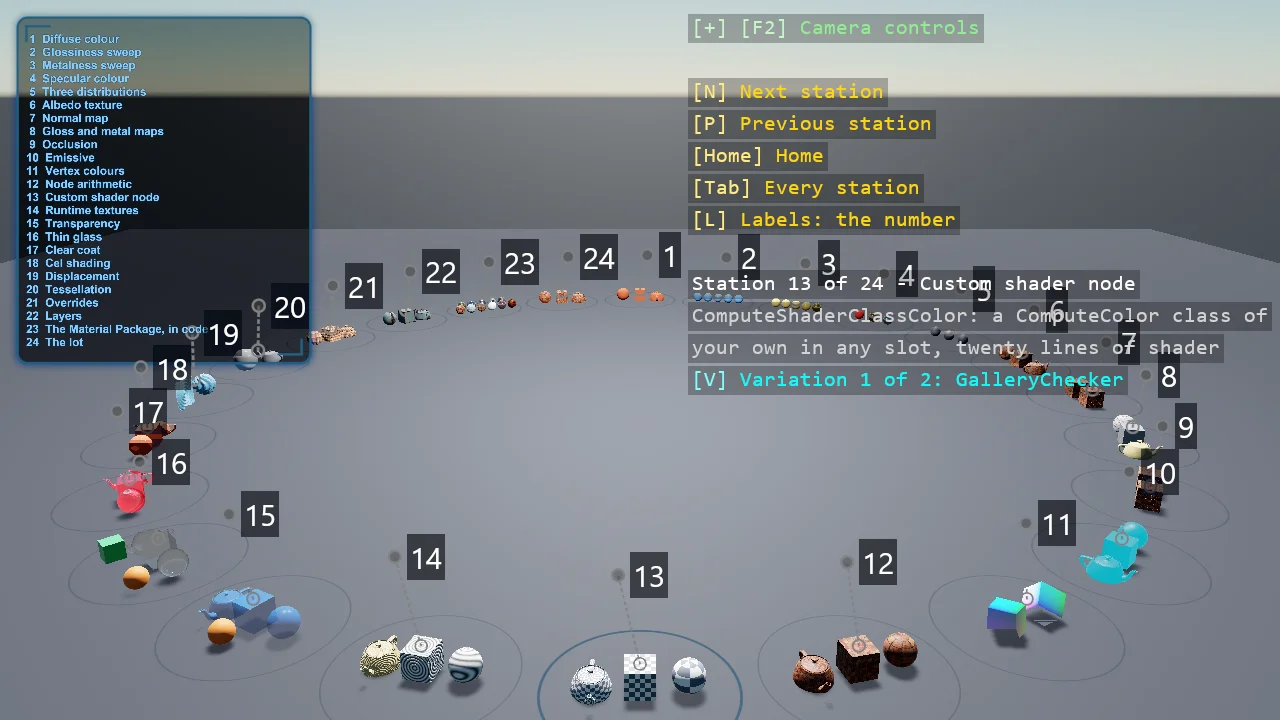
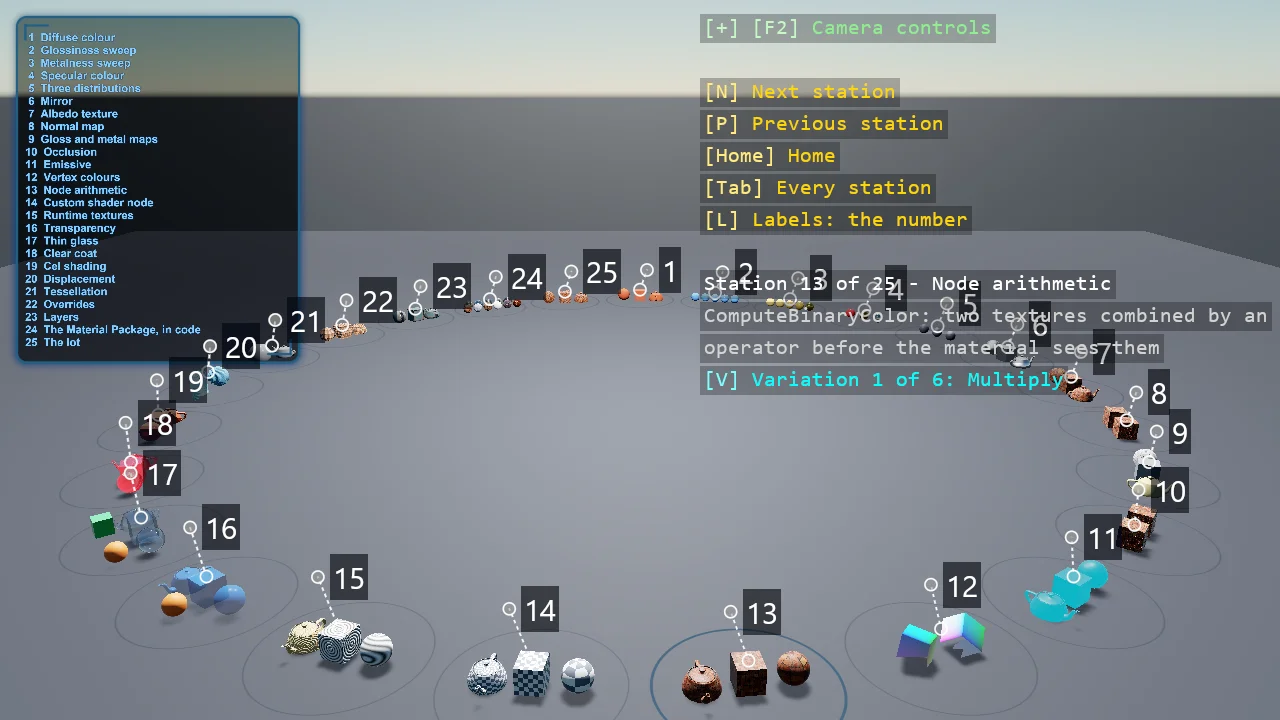
docs: Content updated

diff --git a/docs/release-notes/index.md b/docs/release-notes/index.md
@@ -55,7 +55,7 @@ The Stride Community Toolkit is developed with rapid iteration in mind. It moves
 - ShapeBatch: the pixel stage reads each shape's record from a structured buffer instead of fifteen interpolated registers, points live in their own buffer so a shape has as many as it needs, streams are integer-exact, the border is a flat band with an anti-aliasing ramp measured from screen derivatives, and a 4x4 Bayer dither hides banding in glows.
 - `ShapeGlow.Additive`: a glow that adds light rather than covering what is behind it.
 - The render feature gathers every batch of the frame into shared buffers once, draws each batch under a lock, and flushes after the last view; batches can be removed with `RemoveShapeBatch`.
-- `game.AddShapeBatch(afterPostEffects: true)` draws a batch in the compositor's UI stage, after the post-processing chain, so a colour comes out as given. A batch in the scene goes through auto exposure and the tone mapper with everything else, and a white shape lands at about half next to text that is truly white - measured at exactly 127 of 255 in the gallery frame, solid or dashed, thin or thick. Nothing in the UI stage is depth-tested; the gallery frame's leader lines and pins use it.
+- `game.AddShapeBatch(afterPostEffects: true)` draws a batch in the compositor's UI stage, after the post-processing chain, so a colour comes out as given. A batch in the scene goes through auto exposure and the tone mapper with everything else, and a white shape lands at about half next to text that is truly white - measured at exactly 127 of 255 in the gallery frame, solid or dashed, thin or thick. Nothing in the UI stage is depth-tested; the gallery frame's leader lines and pins use it. `ShapeBatch.WorldPerPixel(point)` says how much world one pixel covers at a point in the last drawn frame, the shader's own figure, so a line can stop short of a pixel-radius ring by the ring's radius at any distance.
 
 ### ✨ Enhancement
 
@@ -85,7 +85,7 @@ The Stride Community Toolkit is developed with rapid iteration in mind. It moves
 
 ### 🎓 Examples
 
-- **Material Gallery** (`E02_3D_MaterialGallery`, new): the engine's material system on a ring of twenty-four stations, all from code, every station on the same sphere, cube and teapot and most with variations on `V`. The numbers first - a Lambert baseline, glossiness and metalness sweeps, the specular-colour workflow, the three microfacet distributions - then the maps (albedo, normal, gloss and metalness, occlusion, an emissive whose intensity is a parameter pulsed every frame), the inputs a slot can take (vertex colours from a `MeshBuilder` mesh, `ComputeBinaryColor` arithmetic, a `ComputeColor` shader class of your own from the example's `Effects` folder, textures computed in C#), the surfaces (blend, additive, cutoff and an ordered-dither cutoff; thin glass; clear coat with runtime flake normals; cel shading with a ramp made at runtime), the models (displacement, PN and flat tessellation at feature level 11, overrides, material layers), Game Studio's Material Package transcribed from its `.sdmat` files onto two rows of spheres, and one material with every slot filled. The pack's nine MIT texture sets are vendored under `examples/code-only/Resources/materials`. Hair and subsurface scattering are not shown: both fail to compile on 4.4's shader mixer (`notes/upstream/hair-material-abstract-direction-function.md`).
+- **Material Gallery** (`E02_3D_MaterialGallery`, new): the engine's material system on a ring of twenty-five stations, all from code, every station on the same sphere, cube and teapot and most with variations on `V`. The numbers first - a Lambert baseline, glossiness and metalness sweeps, the specular-colour workflow, the three microfacet distributions, a mirror (the cubemap check from Stride discussion 3031) - then the maps (albedo, normal, gloss and metalness, occlusion, an emissive whose intensity is a parameter pulsed every frame), the inputs a slot can take (vertex colours from a `MeshBuilder` mesh, `ComputeBinaryColor` arithmetic, a `ComputeColor` shader class of your own from the example's `Effects` folder, textures computed in C#), the surfaces (blend, additive, cutoff and an ordered-dither cutoff; thin glass; clear coat with runtime flake normals; cel shading with a ramp made at runtime), the models (displacement, PN and flat tessellation at feature level 11, overrides, material layers), Game Studio's Material Package transcribed from its `.sdmat` files onto two rows of spheres, and one material with every slot filled. The pack's nine MIT texture sets are vendored under `examples/code-only/Resources/materials`. Hair and subsurface scattering are not shown: both fail to compile on 4.4's shader mixer (`notes/upstream/hair-material-abstract-direction-function.md`).
 - The gallery frame guards a station's setup and update: an exhibit that throws leaves an empty pad with the message on the station and the overlay, and the ring stands. `--station N --variation M` starts a gallery at a station's variation, for screenshots.
 - `E01_3D_BasicScene_EngineOnly` and `E01_3D_BasicScene_FileBasedApp/ProgramEngineOnly.cs` (new): a ground, a cube and a camera in Stride alone, with no toolkit package - the compositor, camera, lights, procedural models and material the toolkit's one-liners stand for - once as a regular project and once as a file-based app. Both need `Stride.Engine` and a build-only `Stride.AssetCompiler`; the file-based one carries a `Directory.Build.targets` for the build-only part, which a `#:package` directive cannot express. The manual has an "Engine Only" page under both Create Project and Create File-Based App.
 - **Easing Basics** (`E02_2D_EasingBasics`, new): easing from the ground up in four lanes that move a disc over the same two seconds - by hand with no easing, by hand with one formula, with `EasingFunction`, and with a `Tween` - with each lane's code printed beside it. The last three use the same curve and move in lockstep while the code gets shorter, and dots along each lane show the spacing that makes easing visible. A gold scene `easing-basics` pins the three to one vertical line.
@@ -105,6 +105,8 @@ The Stride Community Toolkit is developed with rapid iteration in mind. It moves
 - The galleries (`E09_3D_Particles`, `E11_3D_ShapeBatch`) start from above and outside the ring, looking down 17 degrees, so every station is in view at once; the index board hangs in the air where that view has its top-left corner, and stays there when the camera moves; from home, `N` and `P` both go to the first station, and count from the nearest one only once the camera has been steered away; `Home` itself is a longer flight that keeps facing the first station on the way, so from there it is the flight out reversed and from anywhere else the camera turns to it as it rises. The ring on the ground under each station is a button: it fills under the mouse and a click flies there. Station numbers are in a regular face - the built-in font is bold. The shape gallery's Glow station and its G key glow in each shape's own colour at a third of its strength, the neon look, rather than as fatter strokes.
 
 ### 🔧 Engineering
+
+- Thin glass has rendered as an opaque grey wall since the engine's June 2025 blend-description refactor: the transmittance pass builds its multiply blend and then replaces render target 0 with a struct that only sets the alpha factors, which resets the enable flag and the colour factors, so the pass paints its transmittance as paint. The material gallery's glass station puts the multiply back on the transmittance passes after generation; the one-line engine fix is in `notes/upstream/thin-glass-transmittance-blend-state.md`.
 
 - Lessons from building materials in code, each the cause of a black or wrong render before it was found: the microfacet model's default `GGXLUT` environment term resolves the engine's DFG lookup texture through an attached reference a code-only game never loads, so metals render black - the `GGXPolynomial` term needs nothing (`game.CreateMaterial` still uses the default); `Image.Load` decodes a PNG as BGRA, so a loader that copies the pixels into an RGBA texture swaps red and blue; `Material.New` leaves `Material.Descriptor` null, and a material used as a `MaterialBlendLayer` needs it; the thin-glass model is multi-pass on its own and wants no transparency feature and no diffuse model; a vertex-displaced mesh that casts shadows shades itself black; a tessellated shadow caster trips a hull-shader constant-buffer warning every frame (`notes/upstream/tessellation-shadow-hull-constant-buffer.md`).
 - Known issue on Stride 4.4.0-beta7: `DebugRenderComponentScript` (the Bepu debug wireframe) throws on its first frame because the engine's `SinglePassWireframeShader` fails to compile under the new SPIR-V shader pipeline. `E02_3D_Primitives`, `E08_2D_DebugRender` and `E08_3D_DebugRenderComponent` are affected. Fixed upstream in the shader compiler (the stage `streams` variable is zero-initialised) and verified with `4.4.0-dev`; it lands in the next Stride package.

diff --git a/docs/manual/code-only/examples/material-gallery.md b/docs/manual/code-only/examples/material-gallery.md
@@ -27,4 +27,4 @@ The `Program.cs` file shows how to:
 
 View on [GitHub](https://github.com/stride3d/stride-community-toolkit/tree/main/examples/code-only/E02_3D_MaterialGallery).
 
-[!code-csharp[](../../../../examples/code-only/E02_3D_MaterialGallery/Program.cs?start=1&end=137)]
+[!code-csharp[](../../../../examples/code-only/E02_3D_MaterialGallery/Program.cs?start=1&end=168)]
